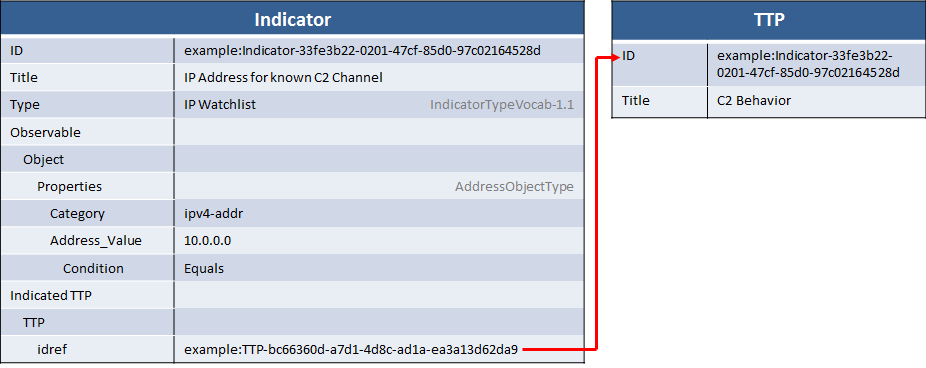
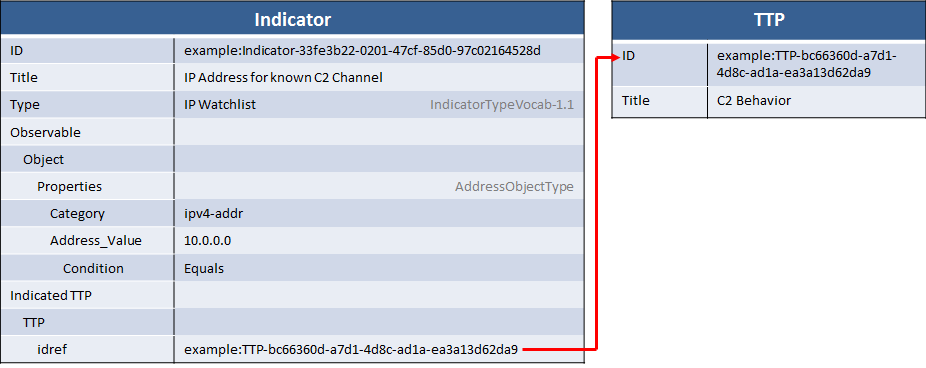
addressed some of Sean's comments

Changed region(s): [[0.7559, 0.1196, 0.9978, 0.2092]]

diff --git a/idioms/indicator/c2-indicator/index.md b/idioms/indicator/c2-indicator/index.md
@@ -7,7 +7,7 @@ One of the most common forms of [indicator](/idioms/indicator) seen describes a 
 
 ## Scenario
 
-This scenario consists of the description of a simple indicator that represents a test for a single IP address and the context that if that IP address is seen it means that there might be C2 traffic.
+This scenario consists of the description of a simple indicator that represents a test for a single IP address and the context that if that IP address is seen it means that there might be C2 traffic. Unlike many real-world use cases, it does not state that the C2 channel is for any particular piece of malware and does not give much context beyond simply that it's C2 Behavior.
 
 ## Data model
 
@@ -17,7 +17,7 @@ In this case, the "test" portion will be a simple cyber observable for an IP add
 
 ![IP Address Indicator Diagram](diagram.png)
 
-In the diagram above, the Indicator component contains the test: a CybOX [Address Object](/documentation/AddressObj/AddressObjectType/) with an `Address Value` of the IP to check for (10.0.0.0). The `Indicated TTP` then uses a [STIX Relationship](idioms/relationships) to link to a TTP that describes the indicator. Note that, besides the TTP, the indicator `Type` field is also used to give the indicator some context.
+In the diagram above, the Indicator component contains the test: a CybOX [Address Object](/documentation/AddressObj/AddressObjectType/) with an `Address Value` of the IP to check for (10.0.0.0). The `Indicated TTP` then uses a [STIX Relationship](idioms/relationships) to link to a TTP that gives context as to why the test is relevant. In this case, that context is that the indicator indicates "C2 Behavior". Note that, besides the TTP, the indicator `Type` field is also used to give the indicator some context.
 
 ## XML
 
